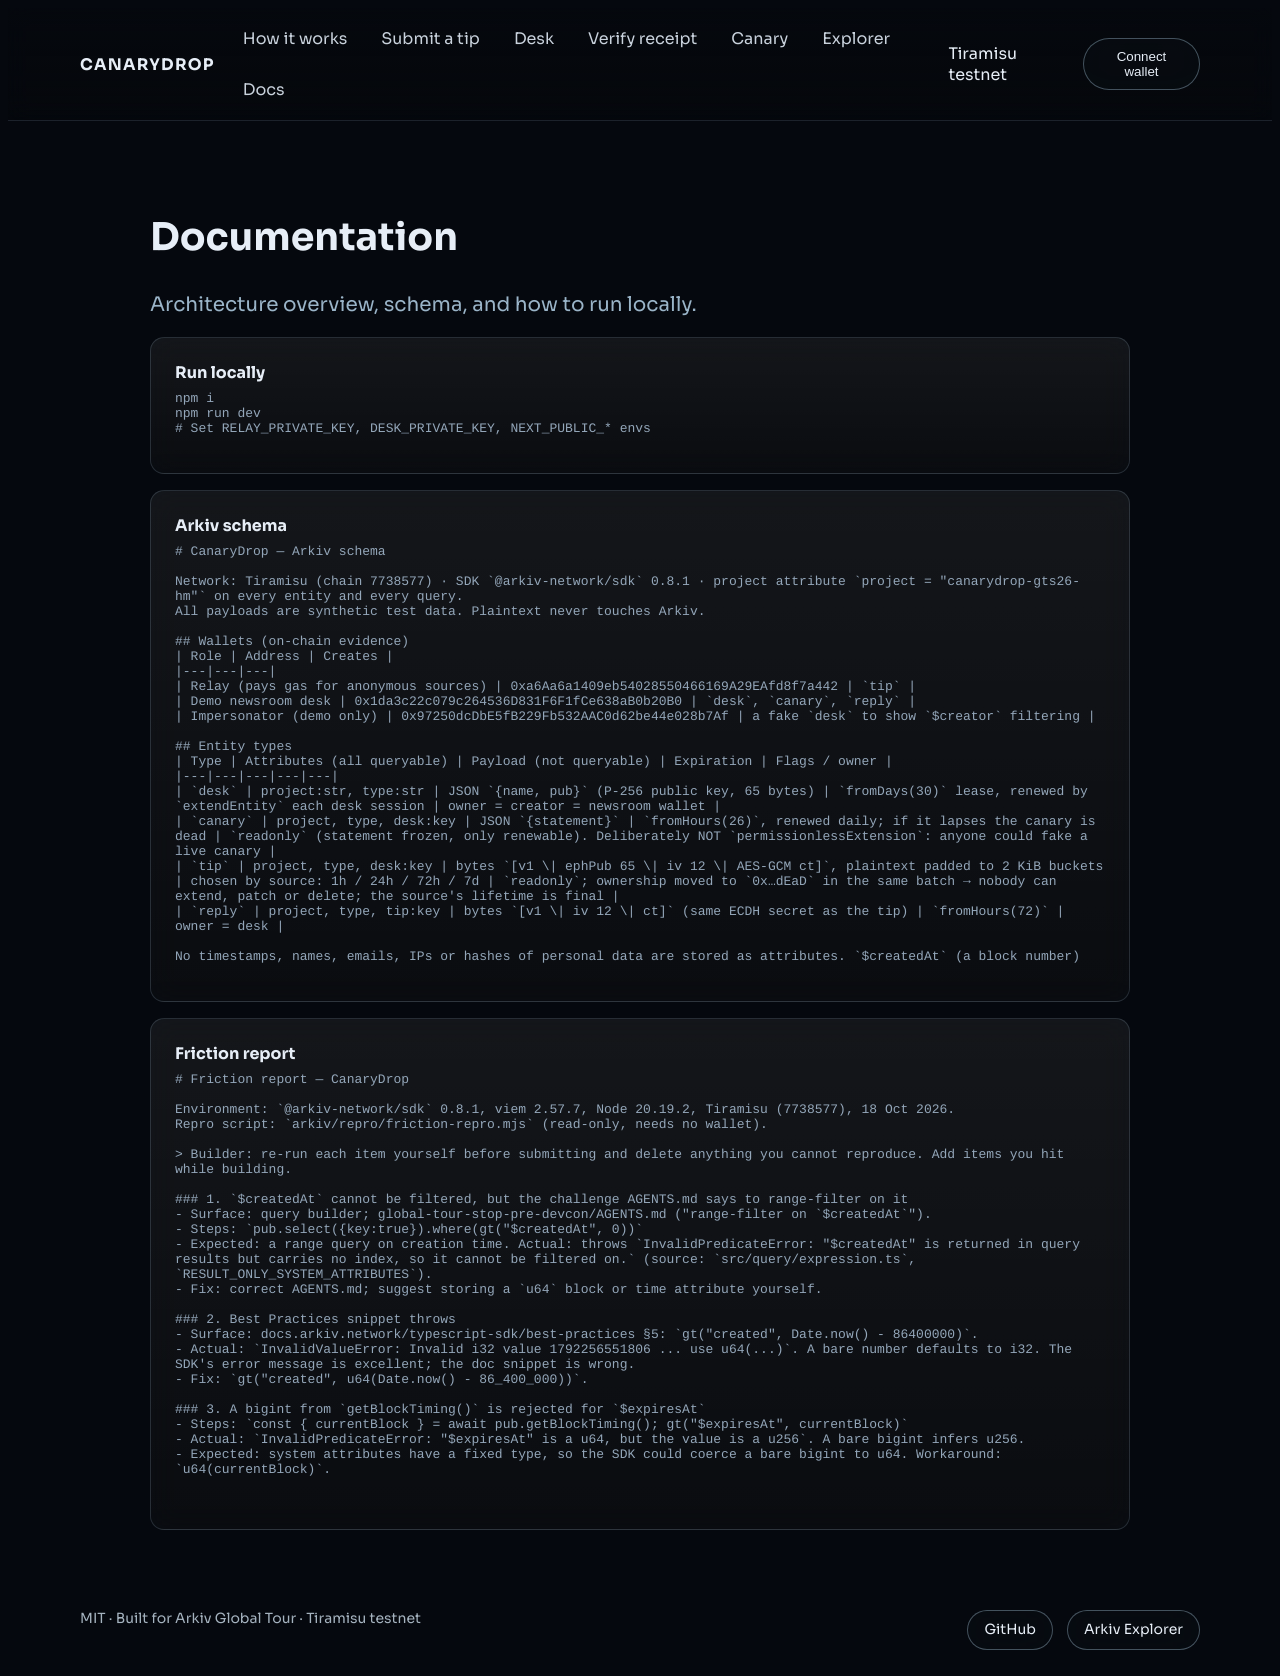
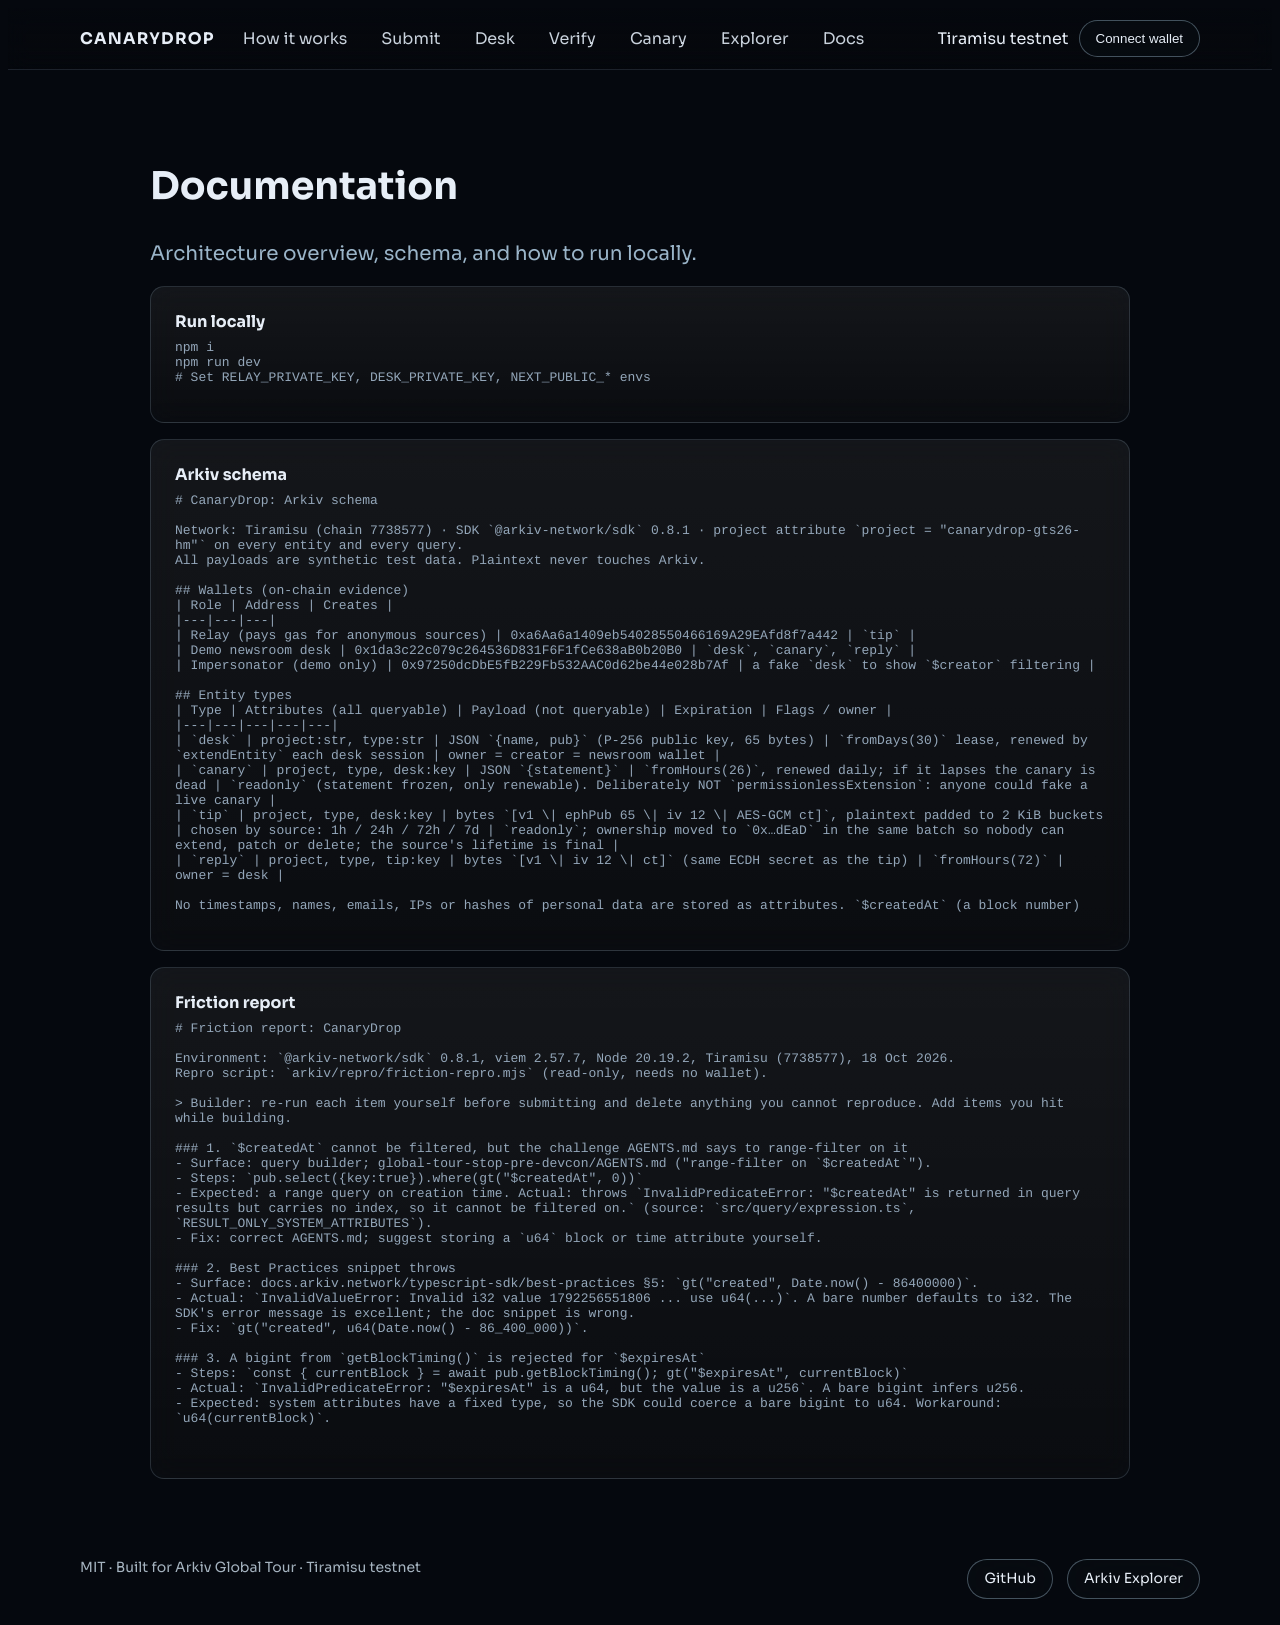
docs: move Arkiv docs to arkiv/schema.md and arkiv/friction.md; update imports; remove old repro

diff --git a/app/page.tsx b/app/page.tsx
@@ -32,9 +32,9 @@ export default function HomePage() {
         <div className="wrap">
           <h2 className="h2">How it works</h2>
           <div className="grid cols-3" style={{ marginTop: 'var(--space-3)' }}>
-            <div className="card"><strong>1) Lock</strong><p className="muted">Your tip is locked on your device. Only the newsroom’s key can open it.</p></div>
-            <div className="card"><strong>2) Send</strong><p className="muted">A sponsor sends it to Arkiv for you. You do not need a wallet or an account.</p></div>
-            <div className="card"><strong>3) Read</strong><p className="muted">The newsroom sees new tips appear and opens them on its own computer.</p></div>
+            <div className="card"><strong>Step 1. Lock</strong><p className="muted">Your tip is locked on your device. Only the newsroom’s key can open it.</p></div>
+            <div className="card"><strong>Step 2. Send</strong><p className="muted">A sponsor sends it to Arkiv for you. You do not need a wallet or an account.</p></div>
+            <div className="card"><strong>Step 3. Read</strong><p className="muted">The newsroom sees new tips appear and opens them on its own computer.</p></div>
           </div>
         </div>
       </section>

diff --git a/tests/e2e/routes.spec.ts b/tests/e2e/routes.spec.ts
@@ -28,3 +28,12 @@ test('production home has headline', async ({ page }) => {
   await expect(page.locator('h1')).toContainText(/Send news safely|Tips that can/);
 });
 
+test('production hero CTAs are auto width', async ({ page }) => {
+  test.skip(!process.env.PRODUCTION_URL, 'PRODUCTION_URL not set');
+  await page.goto(process.env.PRODUCTION_URL!);
+  const w1 = await page.locator('a[href="/submit"]').boundingBox();
+  const w2 = await page.locator('a[href="/desk"]').boundingBox();
+  expect(w1!.width).toBeLessThan(340);
+  expect(w2!.width).toBeLessThan(340);
+});
+

diff --git a/app/docs/page.tsx b/app/docs/page.tsx
@@ -7,8 +7,8 @@ function readFile(p: string) {
 
 export default function DocsPage() {
   const root = process.cwd();
-  const schema = readFile(path.join(root, 'arkiv/arkiv/schema.md'));
-  const friction = readFile(path.join(root, 'arkiv/arkiv/friction.md'));
+  const schema = readFile(path.join(root, 'arkiv/schema.md'));
+  const friction = readFile(path.join(root, 'arkiv/friction.md'));
   return (
     <section className="section">
       <div className="wrap" style={{ maxWidth: 980 }}>

diff --git a/app/globals.css b/app/globals.css
@@ -107,6 +107,7 @@ a { color: inherit; text-decoration: none; }
   justify-content: center;
   flex-wrap: wrap;
 }
+.ctaRow .btn, .ctaRow .cta { width: auto; padding: 12px 24px; }
 .cta {
   position: relative;
   display: inline-flex;

diff --git a/README.md b/README.md
@@ -212,6 +212,28 @@ Arkiv patterns and references adopted
 - Explicit expiry management via `ExpirationTime` and `extendEntity` for canaries and desk leases.
 - All calls verified against `arkiv-sdk-js` v0.8.x source and docs prior to shipping.
 
+Wallets (testnet)
+-----------------
+
+- Relay: `0xa6Aa6a1409eb54028550466169A29EAfd8f7a442` — [Explorer](https://hub.arkiv.network/tiramisu/address/0xa6Aa6a1409eb54028550466169A29EAfd8f7a442)
+- Desk: `0x1da3c22c079c264536D831F6F1fCe638aB0b20B0` — [Explorer](https://hub.arkiv.network/tiramisu/address/0x1da3c22c079c264536D831F6F1fCe638aB0b20B0)
+- Impersonator: `0x97250dcDbE5fB229Fb532AAC0d62be44e028b7Af` — [Explorer](https://hub.arkiv.network/tiramisu/address/0x97250dcDbE5fB229Fb532AAC0d62be44e028b7Af)
+
+Submission checklist (Arkiv Global Tour Stop)
+---------------------------------------------
+
+- MIT license in repo root: Yes (`LICENSE`)
+- Live deployment URL in README: Yes
+- `arkiv/schema.md` present at `arkiv/schema.md`: Yes
+- `arkiv/friction.md` present at `arkiv/friction.md`, with reproduced issues and repro script path: Yes
+- Wallet addresses listed in README: Yes
+- Synthetic data only, no personal data on Arkiv: Yes
+- Source UI requires no wallet; relay posts tips: Yes
+- Canary renewal implemented and documented: Yes
+- Docs page with schema and notes: Yes
+- Demo-mode toggle and no keys shipped to client by default: Yes
+- Tests and load checks included, results in README: Yes
+
 License
 -------
 
